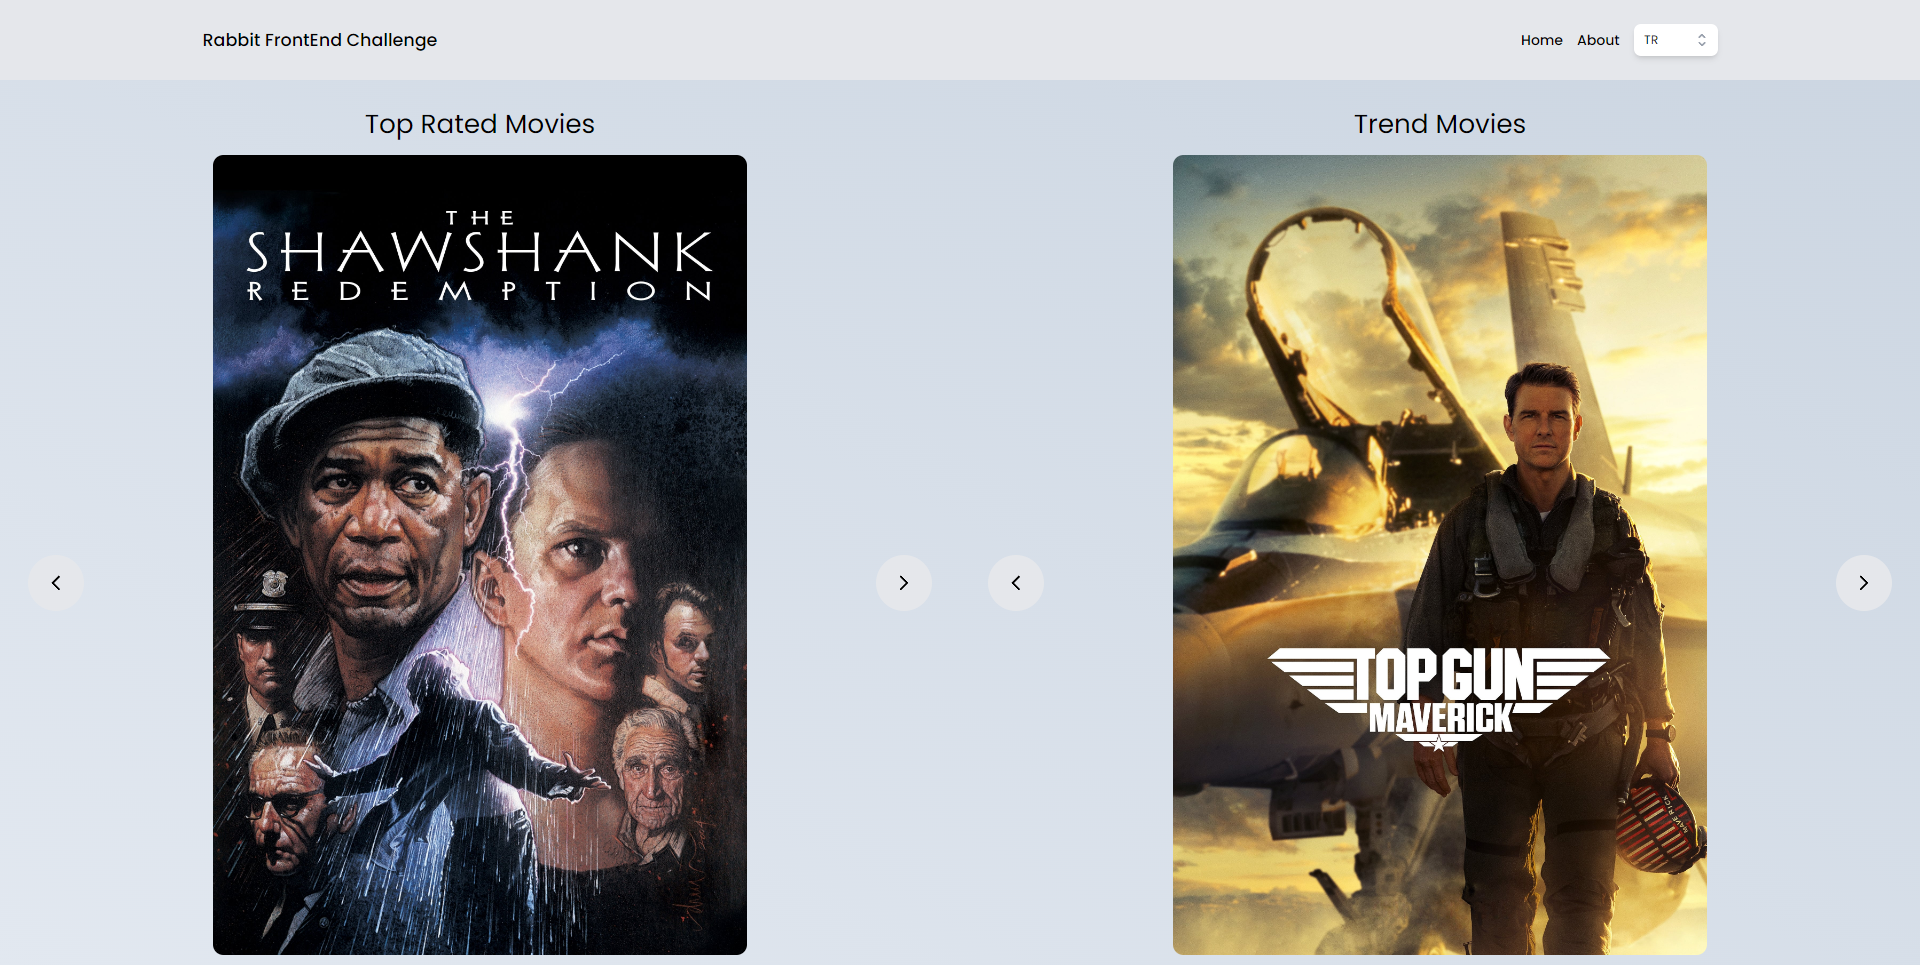
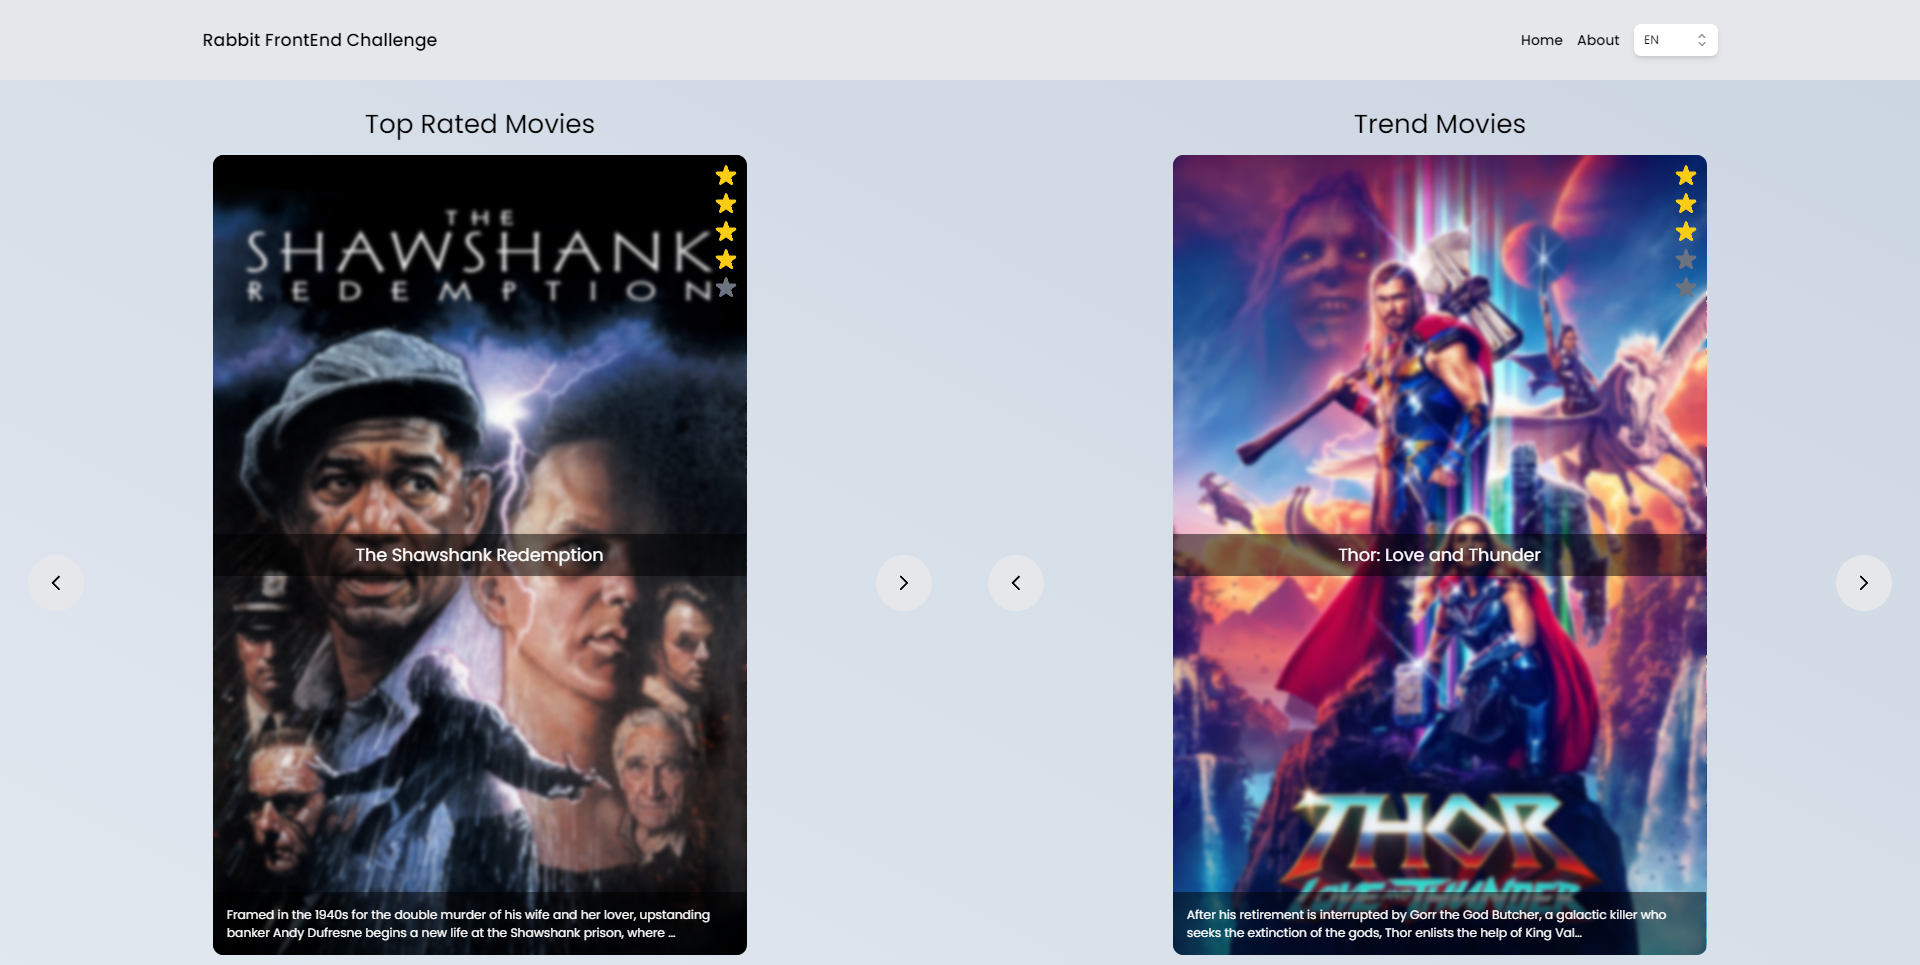
movie section changes..

diff --git a/src/pages/Movie.tsx b/src/pages/Movie.tsx
@@ -6,6 +6,7 @@ import { fetchMovie, fetchMovieCredits } from "../features/movies/movieSlice";
 import { useAppDispatch, useAppSelector } from "../store/hooks";
 import { convertMinsToHrsMins, numberFormat } from "../utils";
 import { BsMouse } from "react-icons/bs";
+import Stars from "../components/Stars";
 
 const Movie: FC = () => {
   const params = useParams();
@@ -74,43 +75,6 @@ const Movie: FC = () => {
         alt={props.title}
         className="h-[500px]  shadow-2xl rounded-lg"
       />
-    );
-  };
-
-  const MovieStars: FC<{ vote_average: number; vote_count: number }> = (
-    props
-  ) => {
-    const [starCount, setStarCount] = useState(1);
-    useEffect(() => {
-      setStarCount(Math.floor(props.vote_average / 2));
-    }, []);
-    return (
-      <div className="flex items-center">
-        {starCount >= 1 &&
-          Array.from(Array(starCount).keys()).map((star, index) => (
-            <svg
-              key={index}
-              className="w-5 h-5 text-yellow-400"
-              fill="currentColor"
-              viewBox="0 0 20 20"
-              xmlns="http://www.w3.org/2000/svg"
-            >
-              <path d="M9.049 2.927c.3-.921 1.603-.921 1.902 0l1.07 3.292a1 1 0 00.95.69h3.462c.969 0 1.371 1.24.588 1.81l-2.8 2.034a1 1 0 00-.364 1.118l1.07 3.292c.3.921-.755 1.688-1.54 1.118l-2.8-2.034a1 1 0 00-1.175 0l-2.8 2.034c-.784.57-1.838-.197-1.539-1.118l1.07-3.292a1 1 0 00-.364-1.118L2.98 8.72c-.783-.57-.38-1.81.588-1.81h3.461a1 1 0 00.951-.69l1.07-3.292z"></path>
-            </svg>
-          ))}
-        {starCount < 5 &&
-          Array.from(Array(5 - starCount).keys()).map((star, index) => (
-            <svg
-              key={index}
-              className="w-5 h-5 text-gray-300 dark:text-gray-500"
-              fill="currentColor"
-              viewBox="0 0 20 20"
-              xmlns="http://www.w3.org/2000/svg"
-            >
-              <path d="M9.049 2.927c.3-.921 1.603-.921 1.902 0l1.07 3.292a1 1 0 00.95.69h3.462c.969 0 1.371 1.24.588 1.81l-2.8 2.034a1 1 0 00-.364 1.118l1.07 3.292c.3.921-.755 1.688-1.54 1.118l-2.8-2.034a1 1 0 00-1.175 0l-2.8 2.034c-.784.57-1.838-.197-1.539-1.118l1.07-3.292a1 1 0 00-.364-1.118L2.98 8.72c-.783-.57-.38-1.81.588-1.81h3.461a1 1 0 00.951-.69l1.07-3.292z"></path>
-            </svg>
-          ))}
-      </div>
     );
   };
 
@@ -229,9 +193,10 @@ const Movie: FC = () => {
                   {movieSelector.movie?.title}
                 </span>
                 ({convertMinsToHrsMins(movieSelector.movie?.runtime || 0)})
-                <MovieStars
+                <Stars
                   vote_average={movieSelector.movie?.vote_average || 0}
                   vote_count={movieSelector.movie?.vote_count || 0}
+                  size="w-4 h-4"
                 />
               </h3>
               <div className="px-3 py-1.5 bg-green-300 flex space-x-2 items-center rounded">

diff --git a/src/components/MovieSection.tsx b/src/components/MovieSection.tsx
@@ -6,6 +6,8 @@ import { CarouselCustomButtonGroup } from "./CarouselCustomButton";
 import { PopularMoviesType } from "../features/movies/popularMoviesSlice";
 import Loader from "./SkeletonLoader";
 import { useNavigate } from "react-router-dom";
+import Stars from "./Stars";
+import { truncateString } from "../utils";
 type MovieSectionProps = {
   movies: TopRatedMoviesType[] | PopularMoviesType[];
   loading: boolean;
@@ -34,11 +36,33 @@ const MovieSection: FC<MovieSectionProps & { title: string }> = (props) => {
         className="h-full flex items-center justify-center cursor-pointer"
         onClick={() => navigate("/movie/" + props.id)}
       >
-        <img
-          src={import.meta.env.VITE_API_IMAGE_URL + "/" + props.poster_path}
-          alt={props.title}
-          className="h-[800px] rounded-xl"
-        />
+        <div className="relative h-full  rounded-xl overflow-hidden">
+          <div className="w-full h-full top-0 left-0 absolute backdrop-blur-[2px]">
+            <div className="text-white flex justify-end m-2">
+              <Stars
+                vote_average={props.vote_average}
+                vote_count={props.vote_count}
+                horizontal
+                size="w-8 h-8"
+              />
+            </div>
+            <div className="flex items-center text-white justify-center h-full absolute top-1/2 transform -translate-y-1/2 w-full">
+              <div className="w-full h-12 text-xl text-white flex items-center justify-center bg-black/50">
+                {props.title}
+              </div>
+            </div>
+            <div className="flex text-white h-full absolute bottom-0 items-end w-full">
+              <div className="w-full text-xl text-white bg-black/50 p-4">
+                <p className="text-sm">{truncateString(props.overview || "", 150)}</p>
+              </div>
+            </div>
+          </div>
+          <img
+            src={import.meta.env.VITE_API_IMAGE_URL + "/" + props.poster_path}
+            alt={props.title}
+            className="h-[800px] rounded-xl"
+          />
+        </div>
       </div>
     );
   };

diff --git a/src/components/Stars.tsx b/src/components/Stars.tsx
@@ -1,0 +1,41 @@
+import { FC, useEffect, useState } from "react";
+const Stars: FC<{
+  vote_average: number;
+  vote_count: number;
+  horizontal?: boolean;
+  size: string;
+}> = (props) => {
+  const [starCount, setStarCount] = useState(1);
+  useEffect(() => {
+    setStarCount(Math.floor(props.vote_average / 2));
+  }, []);
+  return (
+    <div className={`flex items-center ${props.horizontal && "flex-col"}`}>
+      {starCount >= 1 &&
+        Array.from(Array(starCount).keys()).map((star, index) => (
+          <svg
+            key={index}
+            className={`${props.size} text-yellow-400`}
+            fill="currentColor"
+            viewBox="0 0 20 20"
+            xmlns="http://www.w3.org/2000/svg"
+          >
+            <path d="M9.049 2.927c.3-.921 1.603-.921 1.902 0l1.07 3.292a1 1 0 00.95.69h3.462c.969 0 1.371 1.24.588 1.81l-2.8 2.034a1 1 0 00-.364 1.118l1.07 3.292c.3.921-.755 1.688-1.54 1.118l-2.8-2.034a1 1 0 00-1.175 0l-2.8 2.034c-.784.57-1.838-.197-1.539-1.118l1.07-3.292a1 1 0 00-.364-1.118L2.98 8.72c-.783-.57-.38-1.81.588-1.81h3.461a1 1 0 00.951-.69l1.07-3.292z"></path>
+          </svg>
+        ))}
+      {starCount < 5 &&
+        Array.from(Array(5 - starCount).keys()).map((star, index) => (
+          <svg
+            key={index}
+            className={`${props.size} text-gray-300 dark:text-gray-500`}
+            fill="currentColor"
+            viewBox="0 0 20 20"
+            xmlns="http://www.w3.org/2000/svg"
+          >
+            <path d="M9.049 2.927c.3-.921 1.603-.921 1.902 0l1.07 3.292a1 1 0 00.95.69h3.462c.969 0 1.371 1.24.588 1.81l-2.8 2.034a1 1 0 00-.364 1.118l1.07 3.292c.3.921-.755 1.688-1.54 1.118l-2.8-2.034a1 1 0 00-1.175 0l-2.8 2.034c-.784.57-1.838-.197-1.539-1.118l1.07-3.292a1 1 0 00-.364-1.118L2.98 8.72c-.783-.57-.38-1.81.588-1.81h3.461a1 1 0 00.951-.69l1.07-3.292z"></path>
+          </svg>
+        ))}
+    </div>
+  );
+};
+export default Stars;

diff --git a/src/pages/Home.tsx b/src/pages/Home.tsx
@@ -1,5 +1,5 @@
 import { FC, useEffect } from "react";
-import MovieSection from "../components/HomeMovieSection";
+import MovieSection from "../components/MovieSection";
 import { fetchTopRatedMovies } from "../features/movies/topRatedMovieSlice";
 import { useAppDispatch, useAppSelector } from "../store/hooks";
 import { fetchPopularMovies } from "../features/movies/popularMoviesSlice";

diff --git a/src/features/movies/topRatedMovieSlice.ts b/src/features/movies/topRatedMovieSlice.ts
@@ -4,7 +4,9 @@ export type TopRatedMoviesType = {
   poster_path?: string
   adult: boolean
   overview?: string
-  title: string
+  title: string,
+  vote_average: number;
+  vote_count: number;
 }
 
 const initialState: { movies: TopRatedMoviesType[], loading: boolean, error: string } = {

diff --git a/src/utils/index.ts b/src/utils/index.ts
@@ -12,3 +12,6 @@ export const convertMinsToHrsMins = (minutes: number) => {
   m = m < 10 ? "0" + m : m;
   return h + ":" + m;
 };
+
+export const truncateString = (string: string, maxLength: number = 50) =>
+  string.length > maxLength ? `${string.substring(0, maxLength)}…` : string;
